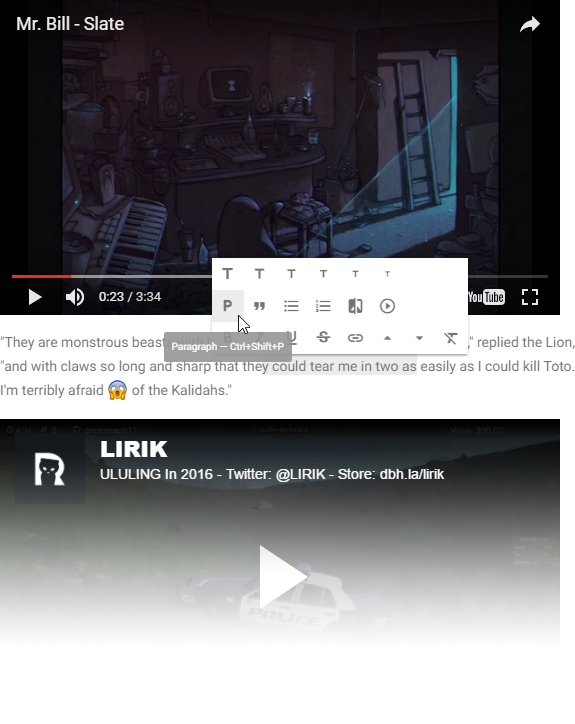
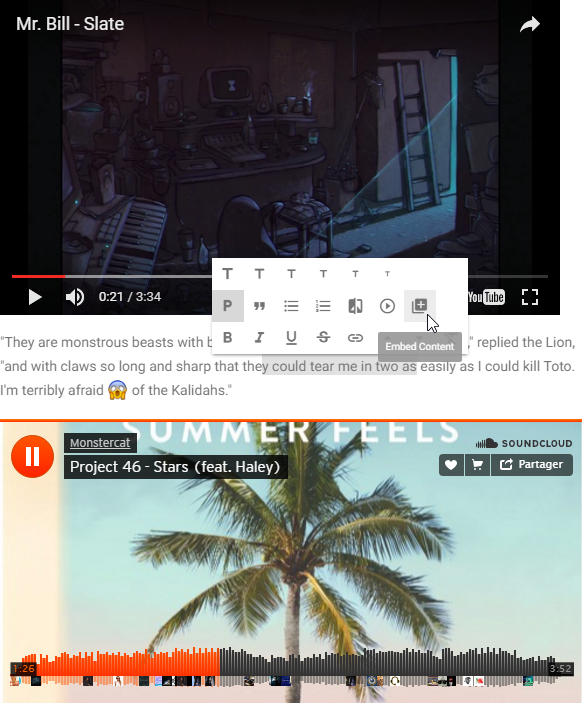
updated site for release v.0.8.1

diff --git a/download.html b/download.html
@@ -28,12 +28,12 @@
           <p>
             Your download will automatically start shortly.<br>
             If that's not the case, start it manually with the following link :
-            <a class="win-setup" href="https://github.com/n457/Uncolored/releases/download/v.0.7.2/Uncolored-v.0.7.2-win-x64-setup.exe">Uncolored-v.0.7.2-win-x64-setup.exe</a>
-            <a class="win-zip" href="https://github.com/n457/Uncolored/releases/download/v.0.7.2/Uncolored-v.0.7.2-win-x64.zip">Uncolored-v.0.7.2-win-x64.zip</a>
-            <a class="osx-dmg" href="https://github.com/n457/Uncolored/releases/download/v.0.7.2/Uncolored-v.0.7.2-osx-x64.dmg">Uncolored-v.0.7.2-osx-x64.dmg</a>
-            <a class="osx-zip" href="https://github.com/n457/Uncolored/releases/download/v.0.7.2/Uncolored-v.0.7.2-osx-x64.zip">Uncolored-v.0.7.2-osx-x64.zip</a>
-            <a class="deb" href="https://github.com/n457/Uncolored/releases/download/v.0.7.2/Uncolored-v.0.7.2-linux-x64.deb">Uncolored-v.0.7.2-linux-x64.deb</a>
-            <a class="linux-zip" href="https://github.com/n457/Uncolored/releases/download/v.0.7.2/Uncolored-v.0.7.2-linux-x64.zip">Uncolored-v.0.7.2-linux-x64.zip</a>
+            <a class="win-setup" href="https://github.com/n457/Uncolored/releases/download/v.0.8.1/Uncolored-v.0.8.1-win-x64-setup.exe">Uncolored-v.0.8.1-win-x64-setup.exe</a>
+            <a class="win-zip" href="https://github.com/n457/Uncolored/releases/download/v.0.8.1/Uncolored-v.0.8.1-win-x64.zip">Uncolored-v.0.8.1-win-x64.zip</a>
+            <a class="osx-dmg" href="https://github.com/n457/Uncolored/releases/download/v.0.8.1/Uncolored-v.0.8.1-osx-x64.dmg">Uncolored-v.0.8.1-osx-x64.dmg</a>
+            <a class="osx-zip" href="https://github.com/n457/Uncolored/releases/download/v.0.8.1/Uncolored-v.0.8.1-osx-x64.zip">Uncolored-v.0.8.1-osx-x64.zip</a>
+            <a class="deb" href="https://github.com/n457/Uncolored/releases/download/v.0.8.1/Uncolored-v.0.8.1-linux-x64.deb">Uncolored-v.0.8.1-linux-x64.deb</a>
+            <a class="linux-zip" href="https://github.com/n457/Uncolored/releases/download/v.0.8.1/Uncolored-v.0.8.1-linux-x64.zip">Uncolored-v.0.8.1-linux-x64.zip</a>
           </p>
         </div>
       </div>

diff --git a/index.html b/index.html
@@ -77,7 +77,7 @@
                 <div class="title download">Download</div>
                 <div class="title choose">Choose your Download</div>
               </div>
-              <div class="version">v.0.7.2 - beta</div>
+              <div class="version">v.0.8.1 - beta</div>
               <!-- a.file-label-container cloned here via JS-->
             </div>
             <ul class="list-more remove-list-style">
@@ -154,7 +154,7 @@
             (Un)colored includes classic & <span class="highlighted">standard word processor tools</span> like <span class="italic">Bold</span>, <span class="italic">Italic</span>, <span class="italic">Links</span>, etc., but also <span class="highlighted">Web-oriented tools</span> like videos from YouTube, Vimeo, Dailymotion, and even Twitch livestreams.
           </p>
           <p>
-            You will soon be able to include <span class="highlighted">any type of embed content</span> to your documents like SoundCloud tracks, tweets, etc. !
+            You can even include <span class="highlighted">any type of embed content</span> to your documents like SoundCloud tracks, Vines, etc. <span class="highlighted">thanks to the <span class="italic">Embed Content</span> tool</span> !
           </p>
           <p class="contains-emojis">
             You want to express how :joy: your sentence is ? No problem, (Un)colored <span class="highlighted">support emojis</span> :smirk: :thumbsup:

diff --git a/css/index.css b/css/index.css
@@ -44,7 +44,7 @@
 
 
 .app-large-img {
-  max-width: 1031px;
+  max-width: 1030px;
   margin-top: 106px;
   margin-bottom: 54px; }
 
@@ -159,7 +159,7 @@
   margin-top: -22px; }
 
 .rich-content-img {
-  max-width: 575px; }
+  max-width: 582px; }
 
 .themes-img {
   max-width: 846px; }
